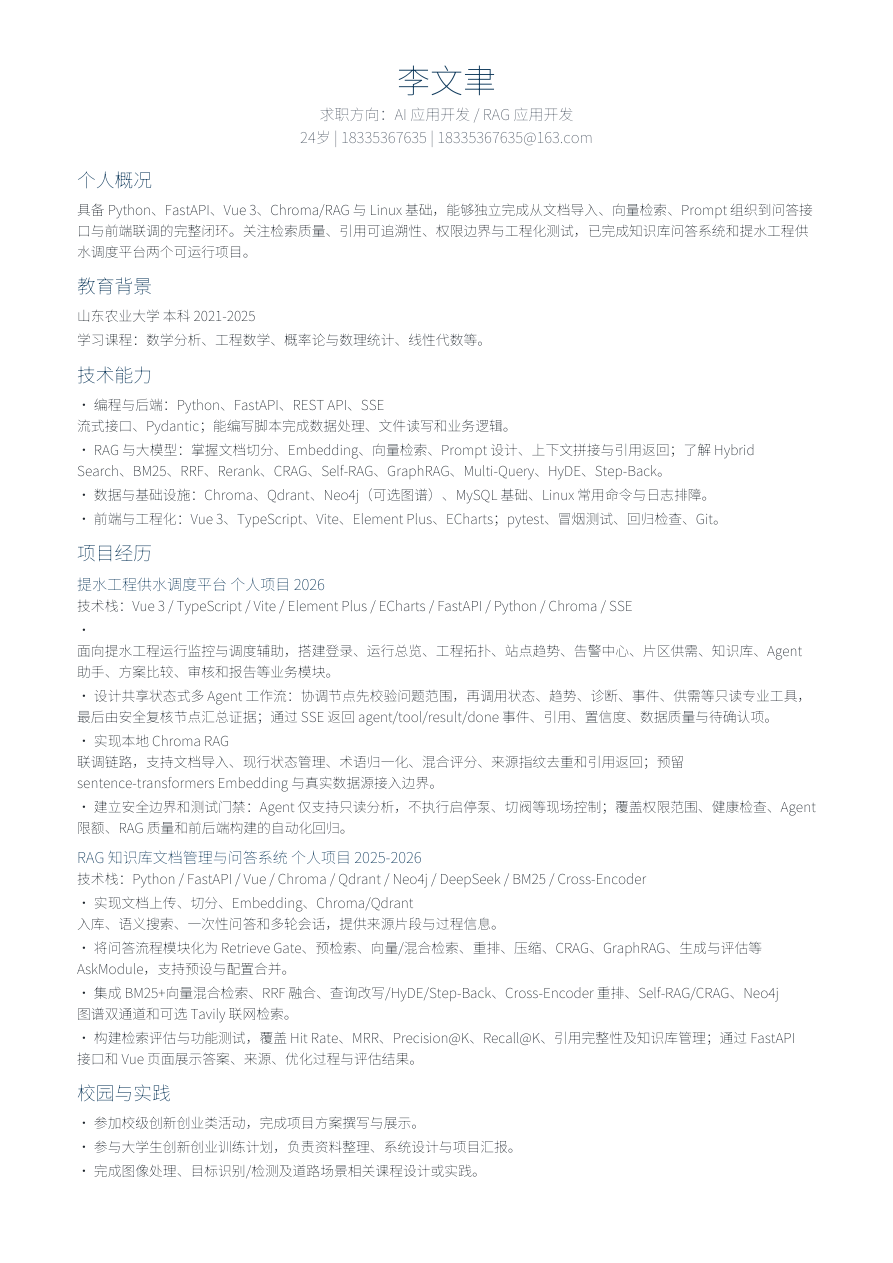
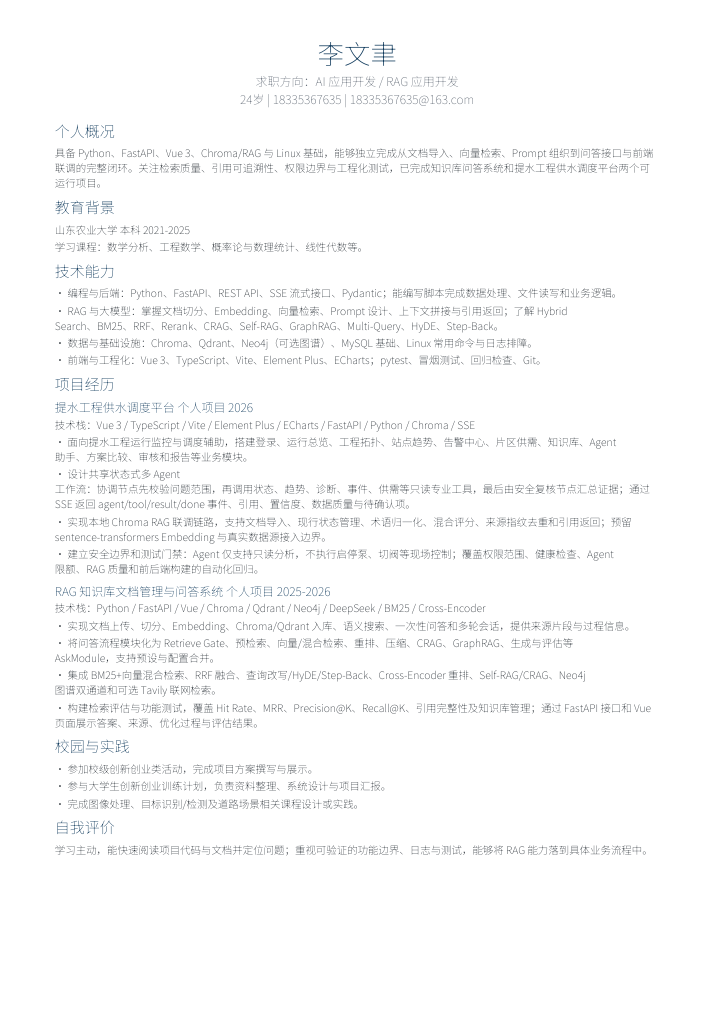
auto: sync 2026-10-23 16:27:49

Changed region(s): [[0.0615, 0.0307, 0.9231, 0.9505], [0.7385, 0.276, 0.8615, 0.3066], [0.8, 0.6746, 0.8923, 0.7052]]

diff --git a/build_resume.py b/build_resume.py
@@ -12,15 +12,15 @@ styles=getSampleStyleSheet()
 navy=colors.HexColor('#123B5D'); blue=colors.HexColor('#2F6B8A'); gray=colors.HexColor('#5B6570')
 styles.add(ParagraphStyle('Name',fontName='Noto',fontSize=22,leading=27,textColor=navy,alignment=TA_CENTER,spaceAfter=3))
 styles.add(ParagraphStyle('Sub',fontName='Noto',fontSize=10,leading=15,textColor=gray,alignment=TA_CENTER))
-styles.add(ParagraphStyle('H',fontName='Noto',fontSize=12.5,leading=18,textColor=navy,spaceBefore=7,spaceAfter=4))
-styles.add(ParagraphStyle('Body',fontName='Noto',fontSize=9.2,leading=14,textColor=colors.HexColor('#20262D'),spaceAfter=2))
+styles.add(ParagraphStyle('H',fontName='Noto',fontSize=12.5,leading=18,textColor=navy,spaceBefore=5,spaceAfter=3))
+styles.add(ParagraphStyle('Body',fontName='Noto',fontSize=8.7,leading=12.5,textColor=colors.HexColor('#20262D'),spaceAfter=2))
 styles.add(ParagraphStyle('Small',fontName='Noto',fontSize=8.5,leading=12.5,textColor=gray))
 styles.add(ParagraphStyle('Proj',fontName='Noto',fontSize=10,leading=14,textColor=navy,spaceAfter=1))
 
 def P(t,s='Body'): return Paragraph(t,styles[s])
 def bullet(t): return P('• '+t)
 
-doc=SimpleDocTemplate(out,pagesize=A4,rightMargin=16*mm,leftMargin=16*mm,topMargin=12*mm,bottomMargin=12*mm)
+doc=SimpleDocTemplate(out,pagesize=A4,rightMargin=14*mm,leftMargin=14*mm,topMargin=9*mm,bottomMargin=9*mm)
 story=[]
 story += [P('李文聿','Name'), P('求职方向：AI 应用开发 / RAG 应用开发','Sub'), P('24岁  |  18335367635  |  18335367635@163.com','Sub'), Spacer(1,5)]
 # summary
@@ -56,3 +56,4 @@ for t in ['参加校级创新创业类活动，完成项目方案撰写与展示
 story += [P('自我评价','H'), P('学习主动，能快速阅读项目代码与文档并定位问题；重视可验证的功能边界、日志与测试，能够将 RAG 能力落到具体业务流程中。')]
 doc.build(story)
 print(out)
+
